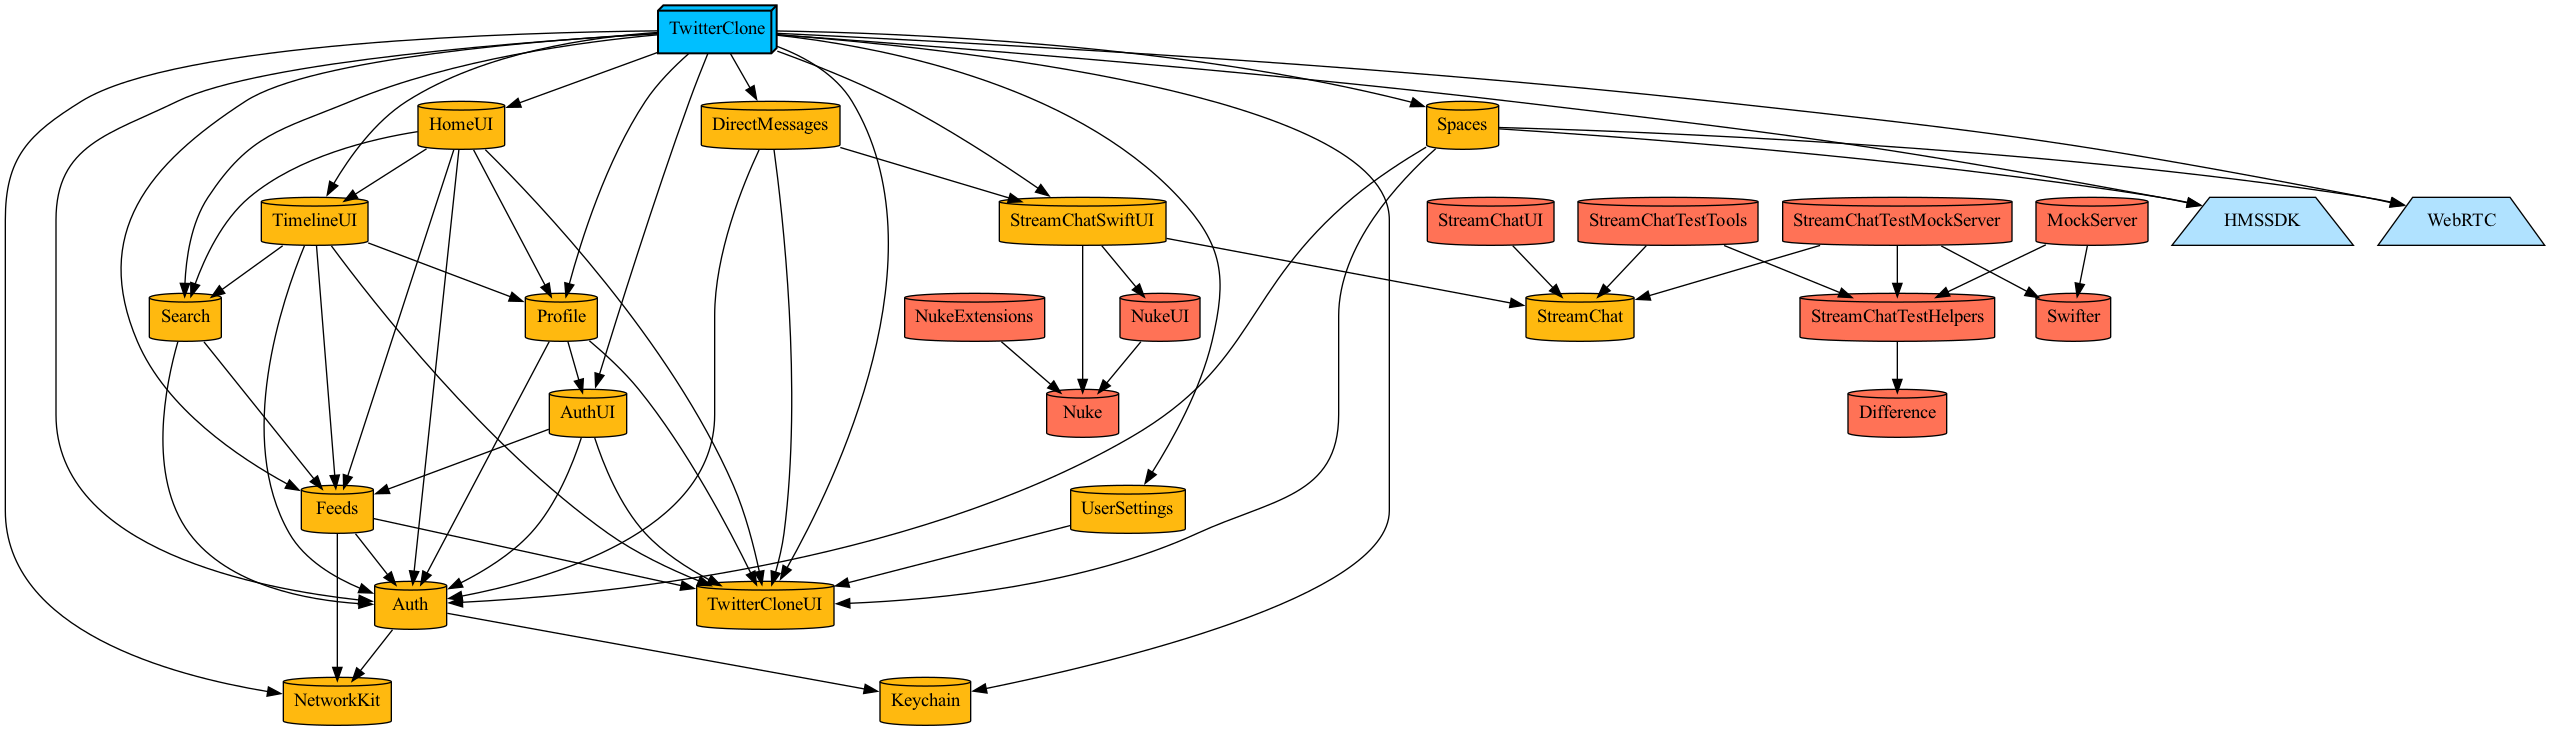
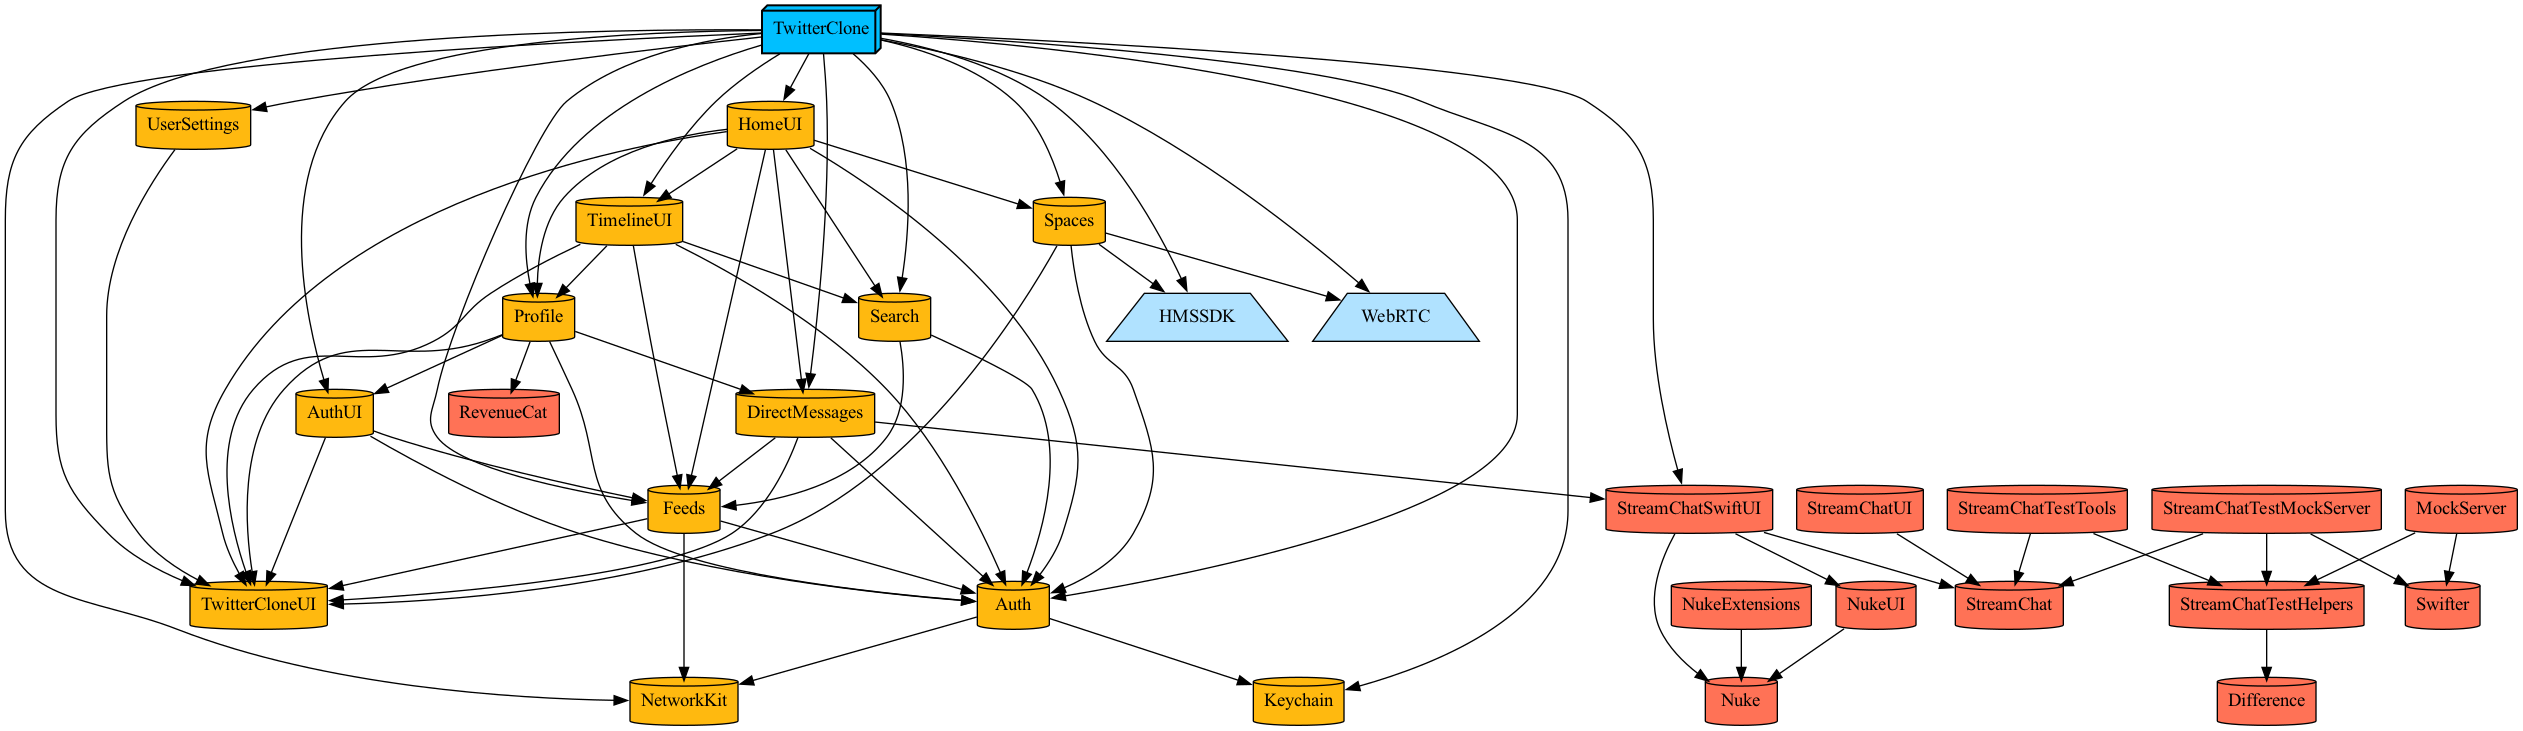
Get project to clean compile again and add revenuecat as a dep

diff --git a/TwitterClone/Targets/Spaces/Sources/SpacesTimelineView.swift b/TwitterClone/Targets/Spaces/Sources/SpacesTimelineView.swift
@@ -8,8 +8,6 @@
 
 import SwiftUI
 import TwitterCloneUI
-import HomeUI
-import Profile
 
 public struct SpacesTimelineView: View {
     public init() {}
@@ -19,7 +17,7 @@ public struct SpacesTimelineView: View {
     
     public var body: some View {
         NavigationStack {
-            VStack{
+            VStack {
                 ScrollView {
                     VStack(alignment: .leading) {
                         Text("Happening Now")
@@ -49,7 +47,6 @@ public struct SpacesTimelineView: View {
                         Text("People you follow will be tuning in")
                             .font(.subheadline)
                             .foregroundColor(.secondary)
-                        
                         
                         Button {
                             isShowingSpacesWelcome.toggle()
@@ -96,15 +93,15 @@ public struct SpacesTimelineView: View {
                         .padding(.horizontal, 12)
                 }
                 
-                SpacesTabBarView()
-                    .frame(height: 48)
+//                SpacesTabBarView()
+//                    .frame(height: 48)
             }
         }
     }
 }
 
-struct SpacesTimelineView_Previews: PreviewProvider {
-    static var previews: some View {
-        SpacesTimelineView()
-    }
-}
+//struct SpacesTimelineView_Previews: PreviewProvider {
+//    static var previews: some View {
+//        SpacesTimelineView()
+//    }
+//}

diff --git a/TwitterClone/Project.swift b/TwitterClone/Project.swift
@@ -29,6 +29,7 @@ let messagesTarget =
                                     [
                                         .external(name: "StreamChatSwiftUI"),
                                         .target(name: authName),
+                                        .target(name: feedsName),
                                         .target(name: uiName)
                                     ])
 let profileTarget =
@@ -38,7 +39,8 @@ let profileTarget =
                                     .target(name: authName),
                                     .target(name: authUiName),
                                     .target(name: messagesName),
-                                    .target(name: uiName)
+                                    .target(name: uiName),
+                                    .external(name: "RevenueCat")
                                  ])
 let searchTarget =
     Project.makeFrameworkTargets(name: searchName,
@@ -63,6 +65,7 @@ let homeUiTarget =
                                     .target(name: profileName),
                                     .target(name: timelineUiName),
                                     .target(name: messagesName),
+                                    .target(name: spacesName),
                                     .target(name: uiName)
                                  ])
 

diff --git a/TwitterClone/Targets/Spaces/Sources/SpacesScheduledView.swift b/TwitterClone/Targets/Spaces/Sources/SpacesScheduledView.swift
@@ -7,18 +7,19 @@
 //
 
 import SwiftUI
-import TimelineUI
-import AuthUI
+import TwitterCloneUI
 
 public struct SpacesScheduledView: View {
     public init() {}
     
     func getTomorrowDate() -> String {
         let today = Date()
-        let future = Calendar.current.date(byAdding: .day, value: 25, to: today)
+        guard let future = Calendar.current.date(byAdding: .day, value: 25, to: today) else {
+            return "-"
+        }
         let dateFormatter = DateFormatter()
         dateFormatter.dateFormat = "dd/MM/yyyy"
-        return dateFormatter.string(from: future!)
+        return dateFormatter.string(from: future)
     }
     
     public var body: some View {
@@ -46,7 +47,6 @@ public struct SpacesScheduledView: View {
                 .bold()
                 .padding(.horizontal)
             
-            
             ZStack { // For the sake of bottom padding
                 Button {
                     
@@ -58,7 +58,6 @@ public struct SpacesScheduledView: View {
                         .cornerRadius(24)
                 }
             }.padding(.bottom)
-            
             
             HStack {
                 Image("profile10")

diff --git a/TwitterClone/Tuist/Dependencies.swift b/TwitterClone/Tuist/Dependencies.swift
@@ -11,8 +11,9 @@ var swiftPackageManagerDependencies = SwiftPackageManagerDependencies(
     [.remote(url: "https://github.com/GetStream/stream-chat-swiftui.git", requirement: .upToNextMajor(from: "4.0.0")),
      .remote(url: "https://github.com/GetStream/stream-chat-swift.git", requirement: .upToNextMajor(from: "4.0.0")),
      .remote(url: "https://github.com/100mslive/100ms-ios-sdk.git",requirement: .upToNextMinor(from: "0.6.2")),
-    ],
-    productTypes: ["StreamChatSwiftUI" : .framework, "StreamChat": .framework, "HMSSDK": .framework]
+     .remote(url: "https://github.com/RevenueCat/purchases-ios.git", requirement: .range(from: "4.0.0", to: "5.0.0")),
+    ]//,
+    //productTypes: ["StreamChatSwiftUI" : .framework, "StreamChat": .framework, "HMSSDK": .framework]
 )
 
 let dependencies = Dependencies(

diff --git a/TwitterClone/Targets/Profile/Sources/PurchaseManager.swift b/TwitterClone/Targets/Profile/Sources/PurchaseManager.swift
@@ -1,0 +1,30 @@
+//
+//  PurchaseManager.swift
+//  Profile
+//
+//  Created by Jeroen Leenarts on 13/02/2023.
+//  Copyright © 2023 Stream.io Inc. All rights reserved.
+//
+
+import Foundation
+import RevenueCat
+import Auth
+
+public class PurchaseManager: ObservableObject {
+    public init() {
+        Purchases.logLevel = .debug
+    }
+    
+    public func configure(userId: String?) {
+        Purchases.configure(withAPIKey: "appl_ffoirKXwYnVnlhIlEaExRfMZxxf", appUserID: userId)
+        
+        Purchases.shared.getOfferings { offerings, error in
+            if let offerings {
+                print(offerings)
+            }
+            if let error {
+                print(error)
+            }
+        }
+    }
+}

diff --git a/TwitterClone/Targets/TwitterClone/Sources/TwitterCloneApp.swift b/TwitterClone/Targets/TwitterClone/Sources/TwitterCloneApp.swift
@@ -22,11 +22,14 @@ struct TwitterCloneApp: App {
     
     // swiftlint:disable:next force_try
     @StateObject var auth = try! TwitterCloneAuth(baseUrl: "http://localhost:8080")
+    @StateObject var purchaseManager = PurchaseManager()
     
     var body: some Scene {
         WindowGroup {
             if let authUser = auth.authUser {
-                HomeView(authUser: authUser).environmentObject(auth)
+                HomeView(authUser: authUser).environmentObject(auth).onReceive(auth.$authUser) { authUser in
+                    purchaseManager.configure(userId: authUser?.userId)
+                }
             } else {
                 StartView().environmentObject(auth)
             }

diff --git a/TwitterClone/Targets/Spaces/Sources/SpacesStartListeningView.swift b/TwitterClone/Targets/Spaces/Sources/SpacesStartListeningView.swift
@@ -22,7 +22,7 @@ public struct SpacesStartListeningView: View {
         NavigationStack {
             
             VStack {
-                HStack{
+                HStack {
                     VStack(alignment: .leading) {
                         Text("Swift and Coffee")
                             .font(.headline)
@@ -55,7 +55,6 @@ public struct SpacesStartListeningView: View {
                         }
                     }
                 }
-                
                 
                 VStack {
                     Button {

diff --git a/TwitterClone/Targets/HomeUI/Sources/HomeView.swift b/TwitterClone/Targets/HomeUI/Sources/HomeView.swift
@@ -11,6 +11,7 @@ import Search
 import Profile
 import TimelineUI
 import DirectMessages
+import Spaces
 
 public struct HomeView: View {
     @StateObject
@@ -68,7 +69,7 @@ public struct HomeView: View {
                             Image(systemName: "magnifyingglass")
                         }
                     
-                    Text("")
+                    SpacesTimelineView()
                         .tabItem {
                             Image(systemName: "waveform.and.mic")
                         }

diff --git a/TwitterClone/Targets/Spaces/Sources/SpacesLiveView.swift b/TwitterClone/Targets/Spaces/Sources/SpacesLiveView.swift
@@ -7,8 +7,7 @@
 //
 
 import SwiftUI
-import TimelineUI
-import AuthUI
+import TwitterCloneUI
 
 public struct SpacesLiveView: View {
     public init() {}
@@ -81,8 +80,8 @@ public struct SpacesLiveView: View {
     }
 }
 
-struct SpacesLiveView_Previews: PreviewProvider {
-    static var previews: some View {
-        SpacesLiveView()
-    }
-}
+//struct SpacesLiveView_Previews: PreviewProvider {
+//    static var previews: some View {
+//        SpacesLiveView()
+//    }
+//}

diff --git a/TwitterClone/Tuist/ProjectDescriptionHelpers/Project+Templates.swift b/TwitterClone/Tuist/ProjectDescriptionHelpers/Project+Templates.swift
@@ -27,7 +27,7 @@ extension Project {
         let sources = Target(name: name,
                 platform: platform,
                 product: .framework,
-                bundleId: "io.getstream.twitterclone.\(name)",
+                bundleId: "io.getstream.\(name)",
                 infoPlist: .default,
                 sources: ["Targets/\(name)/Sources/**"],
                 resources: ["Targets/\(name)/Resources/**"],

diff --git a/TwitterClone/Targets/TwitterCloneUI/Sources/Extensions/ShapeStyle+StreamColor.swift b/TwitterClone/Targets/TwitterCloneUI/Sources/Extensions/ShapeStyle+StreamColor.swift
@@ -10,4 +10,12 @@ public extension ShapeStyle where Self == Color {
     static var streamGreen: Color {
         Color(red: 0.125, green: 0.88, blue: 0.439)
     }
+    
+    static var spacesViolet: Color {
+        Color(red: 0.125, green: 0.88, blue: 0.439)
+    }
+    
+    static var spacesBlue: Color {
+        Color(red: 0.00, green: 0.37, blue: 1.00)
+    }
 }

diff --git a/TwitterClone/Targets/Auth/Sources/TwitterCloneAuth.swift b/TwitterClone/Targets/Auth/Sources/TwitterCloneAuth.swift
@@ -76,7 +76,7 @@ public final class TwitterCloneAuth: ObservableObject {
     let usersUrl: URL
 
     @Published
-    public private(set) var authUser: AuthUser?
+    public var authUser: AuthUser?
     
     public func logout() {
         os_log("Logout triggered")
